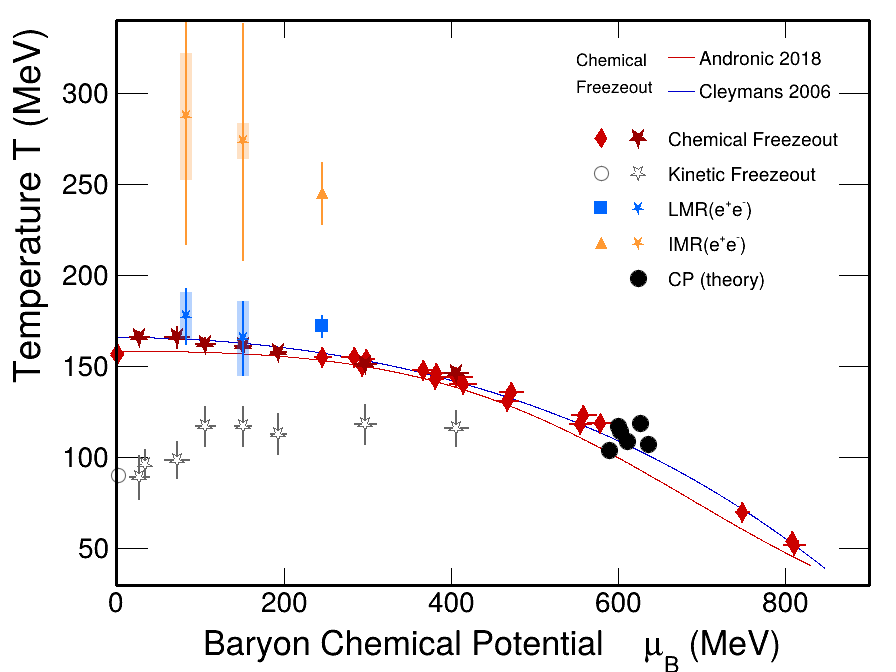
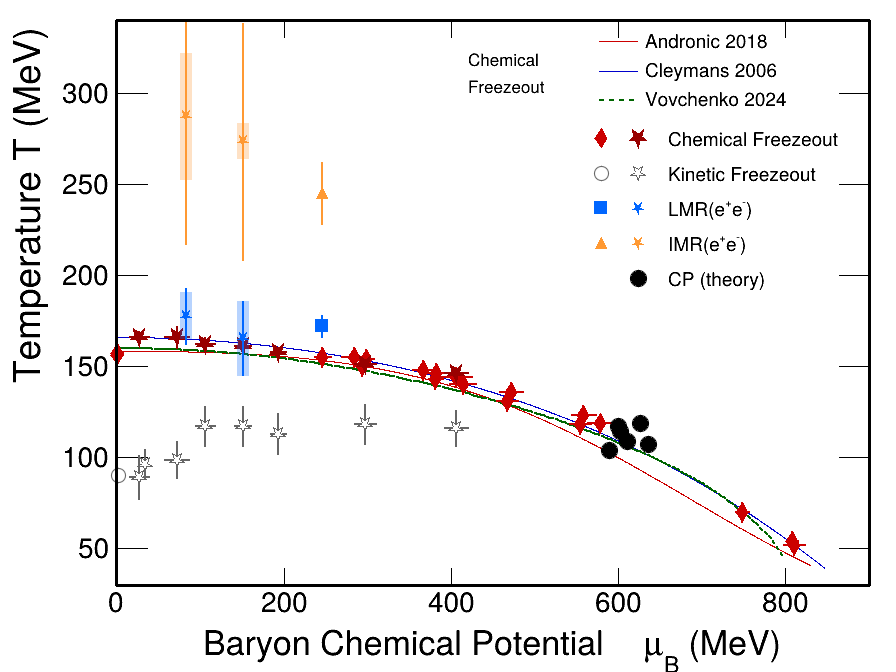
Add Vovchenko 2024 freezeout line

diff --git a/BESII_Review/FreezeOut/plotFO.C b/BESII_Review/FreezeOut/plotFO.C
@@ -11,9 +11,53 @@
 #include "draw.C+"
 #include "style.C+"
 #include "TBox.h"
+#include "TGraph.h"
 #include "TSystem.h"
 
 #include <cmath>
+#include <fstream>
+#include <iostream>
+#include <sstream>
+#include <string>
+#include <vector>
+
+TGraph *loadVovchenkoFreezeoutLine(const char *name)
+{
+  const char *paths[] = {
+    "../data/vovchenko/Id-HRG-FrzLineEN-0.951000-StrNeutr.dat",
+    "data/vovchenko/Id-HRG-FrzLineEN-0.951000-StrNeutr.dat"
+  };
+
+  std::vector<double> mu_b;
+  std::vector<double> temperature;
+  for (const char *path : paths) {
+    std::ifstream input(path);
+    if (!input.is_open()) {
+      continue;
+    }
+
+    std::string line;
+    while (std::getline(input, line)) {
+      std::istringstream row(line);
+      double mu = 0.0;
+      double temp = 0.0;
+      if (row >> mu >> temp) {
+        mu_b.push_back(mu);
+        temperature.push_back(temp);
+      }
+    }
+    break;
+  }
+
+  TGraph *graph = mu_b.empty()
+    ? new TGraph()
+    : new TGraph(static_cast<Int_t>(mu_b.size()), mu_b.data(), temperature.data());
+  graph->SetName(name);
+  if (mu_b.empty()) {
+    std::cerr << "Warning: Vovchenko freezeout line data were not found." << std::endl;
+  }
+  return graph;
+}
 
 void plotFO()
 {
@@ -190,6 +234,7 @@ void plotFO()
   TGraphErrors *g_cp_ref = new TGraphErrors(NCPREF, mu_cp_ref, t_cp_ref, emu_cp_ref, et_cp_ref);
   TGraph *g_cp_func = new TGraph(NCPFUNC, mu_cp_func, t_cp_func);
   TGraph *g_cp_holo = new TGraph(NCPHOLO, mu_cp_holo, t_cp_holo);
+  TGraph *g_vovchenko = loadVovchenkoFreezeoutLine("g_vovchenko");
 
   TGraphErrors *glog_fopi = new TGraphErrors(NFOPI, mu_fopi, t_fopi, emu_fopi, et_fopi);
   TGraphErrors *glog_hades = new TGraphErrors(NHADES, mu_hades, t_hades, emu_hades, et_hades);
@@ -206,6 +251,7 @@ void plotFO()
   TGraphErrors *glog_cp_ref = new TGraphErrors(NCPREF, mu_cp_ref, t_cp_ref, emu_cp_ref, et_cp_ref);
   TGraph *glog_cp_func = new TGraph(NCPFUNC, mu_cp_func, t_cp_func);
   TGraph *glog_cp_holo = new TGraph(NCPHOLO, mu_cp_holo, t_cp_holo);
+  TGraph *glog_vovchenko = loadVovchenkoFreezeoutLine("glog_vovchenko");
 
   TBox *box_lmr[NLMR];
   TBox *box_imr[NIMR];
@@ -275,6 +321,7 @@ void plotFO()
   g_cp_ref->SetMarkerStyle(20); g_cp_ref->SetMarkerSize(2.0); g_cp_ref->SetMarkerColor(kBlack);      g_cp_ref->SetLineColor(kBlack);
   g_cp_func->SetMarkerStyle(20); g_cp_func->SetMarkerSize(2.0); g_cp_func->SetMarkerColor(kBlack);   g_cp_func->SetLineColor(kBlack);
   g_cp_holo->SetMarkerStyle(20); g_cp_holo->SetMarkerSize(2.0); g_cp_holo->SetMarkerColor(kBlack);   g_cp_holo->SetLineColor(kBlack);
+  g_vovchenko->SetLineWidth(2); g_vovchenko->SetLineStyle(7); g_vovchenko->SetLineColor(kGreen + 3);
   glog_fopi->SetMarkerStyle(33);  glog_fopi->SetMarkerSize(2.6); glog_fopi->SetMarkerColor(kRed + 1);     glog_fopi->SetLineColor(kRed + 1);
   glog_hades->SetMarkerStyle(33); glog_hades->SetMarkerSize(2.6); glog_hades->SetMarkerColor(kRed + 1);    glog_hades->SetLineColor(kRed + 1);
   glog_ags->SetMarkerStyle(33);   glog_ags->SetMarkerSize(2.6); glog_ags->SetMarkerColor(kRed + 1);      glog_ags->SetLineColor(kRed + 1);
@@ -290,6 +337,7 @@ void plotFO()
   glog_cp_ref->SetMarkerStyle(20); glog_cp_ref->SetMarkerSize(2.0); glog_cp_ref->SetMarkerColor(kBlack);  glog_cp_ref->SetLineColor(kBlack);
   glog_cp_func->SetMarkerStyle(20); glog_cp_func->SetMarkerSize(2.0); glog_cp_func->SetMarkerColor(kBlack); glog_cp_func->SetLineColor(kBlack);
   glog_cp_holo->SetMarkerStyle(20); glog_cp_holo->SetMarkerSize(2.0); glog_cp_holo->SetMarkerColor(kBlack); glog_cp_holo->SetLineColor(kBlack);
+  glog_vovchenko->SetLineWidth(2); glog_vovchenko->SetLineStyle(7); glog_vovchenko->SetLineColor(kGreen + 3);
 
 
   TCanvas *c1 = new TCanvas("c1", "", 900, 700);
@@ -315,6 +363,7 @@ void plotFO()
   for (int im = 0; im < NM; im++) {
     grLog[im]->Draw("c same");
   }
+  glog_vovchenko->Draw("L SAME");
 
   glog_fopi->Draw("P SAME");
   glog_hades->Draw("P SAME");
@@ -334,15 +383,16 @@ void plotFO()
   glog_cp_func->Draw("P SAME");
   glog_cp_holo->Draw("P SAME");
 
-  drawText(550, 315, "Chemical", 42, 0.028);
-  drawText(550, 300, "Freezeout", 42, 0.028);
+  drawText(420, 315, "Chemical", 42, 0.028);
+  drawText(420, 300, "Freezeout", 42, 0.028);
   
-  TLegend *legCurve = new TLegend(0.74, 0.84, 0.90, 0.94);
+  TLegend *legCurve = new TLegend(0.66, 0.83, 0.90, 0.96);
   legCurve->SetFillStyle(4000);
   legCurve->SetBorderSize(0);
   legCurve->SetTextSize(0.03);
   legCurve->AddEntry(gr[0], Label[0], "l");
   legCurve->AddEntry(gr[1], Label[1], "l");
+  legCurve->AddEntry(g_vovchenko, "Vovchenko 2024", "l");
   legCurve->Draw();
 
   TLegend *legData1 = new TLegend(0.67, 0.56, 0.68, 0.82);
@@ -404,6 +454,7 @@ void plotFO()
   for (int im = 0; im < NM; im++) {
     gr[im]->Draw("c same");
   }
+  g_vovchenko->Draw("L SAME");
 
   g_fopi->Draw("P SAME");
   g_hades->Draw("P SAME");
@@ -423,15 +474,16 @@ void plotFO()
   g_cp_func->Draw("P SAME");
   g_cp_holo->Draw("P SAME");
 
-  drawText(550, 315, "Chemical", 42, 0.028);
-  drawText(550, 300, "Freezeout", 42, 0.028);
+  drawText(420, 315, "Chemical", 42, 0.028);
+  drawText(420, 300, "Freezeout", 42, 0.028);
   
-  TLegend *legCurve2 = new TLegend(0.74, 0.84, 0.90, 0.94);
+  TLegend *legCurve2 = new TLegend(0.66, 0.83, 0.90, 0.96);
   legCurve2->SetFillStyle(4000);
   legCurve2->SetBorderSize(0);
   legCurve2->SetTextSize(0.03);
   legCurve2->AddEntry(gr[0], Label[0], "l");
   legCurve2->AddEntry(gr[1], Label[1], "l");
+  legCurve2->AddEntry(g_vovchenko, "Vovchenko 2024", "l");
   legCurve2->Draw();
 
   TLegend *legData3 = new TLegend(0.67, 0.56, 0.68, 0.82);
